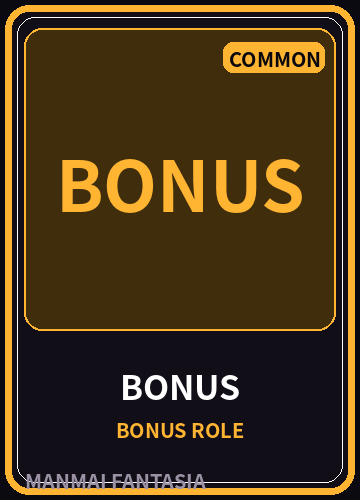
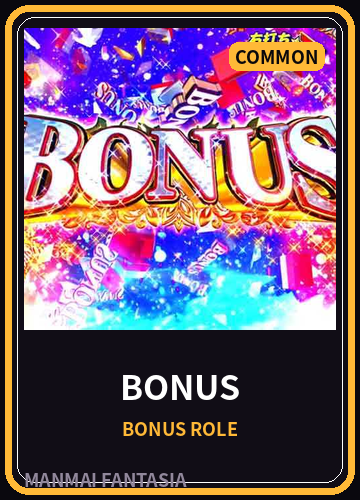
Add files via upload

diff --git a/index.html b/index.html
@@ -2,7 +2,7 @@
 <html lang="ja">
 <head>
 <meta charset="utf-8"><meta name="viewport" content="width=device-width,initial-scale=1">
-<title>万枚ファンタジア Ver.14</title>
+<title>万枚ファンタジア Ver.16</title>
 <style>
 *{box-sizing:border-box}body{margin:0;background:radial-gradient(circle at top,#311842,#070609 65%);color:#fff;font-family:system-ui,-apple-system,"Segoe UI",sans-serif}
 .wrap{max-width:1180px;margin:auto;padding:18px 14px 60px}h1{text-align:center;margin:0;font-size:clamp(34px,7vw,62px);letter-spacing:.07em}.sub{text-align:center;color:#cbbfd2;margin:4px 0 18px}
@@ -58,7 +58,7 @@
 .card .cardFallback{position:absolute;inset:0;display:grid;place-items:center;text-align:center;padding:7px}
 @media(max-width:600px){.card{min-height:135px!important}.card img.cardArt{min-height:135px}}
 
-</style></head><body>
+.roleFxPanel{border-color:#ffe27755!important;background:linear-gradient(180deg,#211627,#151019)!important}.roleFxHead{display:flex;justify-content:space-between;align-items:center;margin-bottom:10px;font-weight:1000}.roleFxHead span{font-size:22px;letter-spacing:.12em;color:#ffe277;text-shadow:0 0 16px #ffe27766}.roleFxHead b{font-size:12px;color:#70ffad;border:1px solid #70ffad55;padding:5px 10px;border-radius:999px}.roleFxRows{display:grid;gap:7px}.roleFxRow{display:grid;grid-template-columns:minmax(120px,1.1fr) 1fr auto;align-items:center;gap:10px;padding:8px 10px;border-radius:10px;background:#09070dbd;border:1px solid #ffffff12}.roleFxName{font-weight:900}.roleFxMeter{height:8px;background:#ffffff12;border-radius:999px;overflow:hidden}.roleFxMeter i{display:block;height:100%;background:linear-gradient(90deg,#8f5cff,#ffe277);border-radius:999px}.roleFxResult{font-size:11px;font-weight:1000}.roleFxRow.hit{border-color:#ffe27788;box-shadow:0 0 16px #ffe27720}.roleFxRow.hit .roleFxResult{color:#ffe277}.roleFxRow.special{border-color:#61c7ff88}.roleFxRow.special .roleFxResult{color:#61c7ff}.roleFxEmpty{text-align:center;color:#9d91a5;font-size:12px;padding:10px}.card.roleUsed{box-shadow:0 0 0 3px #ffe277,0 0 24px #ffe27788!important;transform:translateY(-3px)}</style></head><body>
 
 <div class="howOverlay" id="howOverlay">
   <div class="howBox">
@@ -74,7 +74,7 @@
 <div id="ruleContent"></div></div></div>
 
 <div class="synergy" id="syn">SYNERGY!</div><div class="overlay" id="overlay"><div><div class="fx" id="fx">FREEZE</div><div class="subfx" id="fxsub"></div></div></div>
-<div class="wrap"><h1>万枚ファンタジア</h1><div class="sub">Ver.14 ― IMAGE DECK</div>
+<div class="wrap"><h1>万枚ファンタジア</h1><div class="sub">Ver.16 ― BASIC DECK REVOLUTION</div>
 <div class="panel"><div class="machines">
 <div class="machine selected" data-m="madoka"><div class="machineCab"><img src="madoka.png" alt="スマスロ マギアレコード 筐体"></div><div class="machineInfo"><h3>スマスロ マギアレコード</h3><small>上位：エンブリオ・イブ覚醒</small></div></div>
 <div class="machine" data-m="geass"><div class="machineCab"><img src="geass.png" alt="スマスロ コードギアス 筐体"></div><div class="machineInfo"><h3>スマスロ コードギアス</h3><small>上位：ギアスラッシュ</small></div></div>
@@ -99,8 +99,8 @@ let soundOn=true,ctx=null;function tone(f,d=.08,g=.035,w=0,t="triangle"){if(!sou
 const S={bet(){tone(220,.05);tone(330,.05,.03,.05)},flip(){tone(500+Math.random()*80,.035,.018)},rare(){tone(170,.12,.055,0,"sawtooth");tone(700,.15,.03,.07)},hit(){tone(650,.08,.04);tone(900,.12,.04,.07)},free(){[650,850,1100].forEach((f,i)=>tone(f,.12,.045,i*.06))},freeze(){tone(70,.55,.08,0,"sawtooth");tone(950,.5,.05,.4)},premium(){[100,330,550,880,1320].forEach((f,i)=>tone(f,.2,.05,i*.1))}};
 const common=[...Array(18).fill("BEL"),...Array(14).fill("REP"),...Array(6).fill("WCHE"),...Array(2).fill("SCHE"),...Array(5).fill("WSUI"),"SSUI",...Array(5).fill("CHN"),...Array(3).fill("BON")];
 const specs={madoka:["QB","QB","SOUL","SOUL","GRIEF","GRIEF"],geass:["GEASS","GEASS","KNIGHT","KNIGHT","KMF","KMF"],hokuto:["YURIA","YURIA","TOMO","TOMO","SEVEN","SEVEN"],basilisk:["KOGA","KOGA","IGA","IGA","KIZUNA","KIZUNA"]};
-const cardImages={"BEL": "card_bel.png", "REP": "card_rep.png", "WCHE": "card_wche.png", "SCHE": "card_sche.png", "WSUI": "card_wsui.png", "SSUI": "card_ssui.png", "CHN": "card_chn.png", "BON": "card_bon.png", "QB": "card_qb.png", "SOUL": "card_soul.png", "GRIEF": "card_grief.png", "GEASS": "card_geass.png", "KNIGHT": "card_knight.png", "KMF": "card_kmf.png", "YURIA": "card_yuria.png", "TOMO": "card_tomo.png", "SEVEN": "card_seven.png", "KOGA": "card_koga.png", "IGA": "card_iga.png", "KIZUNA": "card_kizuna.png"};
-const names={BEL:"ベル",REP:"リプレイ",WCHE:"弱チェリー",SCHE:"強チェリー",WSUI:"弱スイカ",SSUI:"強スイカ",CHN:"チャンス目",BON:"BONUS",QB:"キュゥべえ",SOUL:"ソウルジェム",GRIEF:"グリーフシード",GEASS:"ギアス",KNIGHT:"黒の騎士団",KMF:"ナイトメア",YURIA:"ユリア",TOMO:"強敵",SEVEN:"北斗七星",KOGA:"甲賀",IGA:"伊賀",KIZUNA:"絆"};
+const cardImages={"GOD":"card_god.png","MISS":"card_miss.png","BEL": "card_bel.png", "REP": "card_rep.png", "WCHE": "card_wche.png", "SCHE": "card_sche.png", "WSUI": "card_wsui.png", "SSUI": "card_ssui.png", "CHN": "card_chn.png", "BON": "card_bon.png", "QB": "card_qb.png", "SOUL": "card_soul.png", "GRIEF": "card_grief.png", "GEASS": "card_geass.png", "KNIGHT": "card_knight.png", "KMF": "card_kmf.png", "YURIA": "card_yuria.png", "TOMO": "card_tomo.png", "SEVEN": "card_seven.png", "KOGA": "card_koga.png", "IGA": "card_iga.png", "KIZUNA": "card_kizuna.png"};
+const names={GOD:"GOD",MISS:"ハズレ",BEL:"ベル",REP:"リプレイ",WCHE:"弱チェリー",SCHE:"強チェリー",WSUI:"弱スイカ",SSUI:"強スイカ",CHN:"チャンス目",BON:"BONUS",QB:"キュゥべえ",SOUL:"ソウルジェム",GRIEF:"グリーフシード",GEASS:"ギアス",KNIGHT:"黒の騎士団",KMF:"ナイトメア",YURIA:"ユリア",TOMO:"強敵",SEVEN:"北斗七星",KOGA:"甲賀",IGA:"伊賀",KIZUNA:"絆"};
 const cabinetImages={
  madoka:"madoka.png",
  geass:"geass.png",
@@ -153,7 +153,193 @@ function renderBetButtons(){
    });
  }
 }
-function updateCabinetDisplay(){
+const roleReqFX={BEL:4,REP:3,WCHE:2,SCHE:1,WSUI:2,SSUI:1,CHN:2,BON:1};const specialFX=new Set(["QB","SOUL","GRIEF","GEASS","KNIGHT","KMF","YURIA","TOMO","SEVEN","KOGA","IGA","KIZUNA"]);function updateRoleFX(arr){const c={};arr.forEach(x=>c[x]=(c[x]||0)+1);let rows=[],hits=0;Object.keys(roleReqFX).forEach(k=>{let n=c[k]||0;if(!n)return;let r=roleReqFX[k],hit=n>=r;if(hit)hits++;rows.push(`<div class="roleFxRow ${hit?"hit":""}"><div class="roleFxName">${names[k]} ×${n}</div><div class="roleFxMeter"><i style="width:${Math.min(100,n/r*100)}%"></i></div><div class="roleFxResult">${hit?"成立！":`あと${r-n}枚`}</div></div>`)});Object.keys(c).filter(k=>specialFX.has(k)).forEach(k=>rows.push(`<div class="roleFxRow special"><div class="roleFxName">${names[k]} ×${c[k]}</div><div class="roleFxMeter"><i style="width:100%"></i></div><div class="roleFxResult">専用カード出現</div></div>`));E("roleFxRows").innerHTML=rows.join("")||'<div class="roleFxEmpty">成立候補なし</div>';E("roleFxStatus").textContent=hits?`${hits} ROLE HIT`:"CHECK COMPLETE";document.querySelectorAll("#cards .card").forEach(el=>el.classList.remove("roleUsed"));Object.keys(roleReqFX).forEach(k=>{if((c[k]||0)>=roleReqFX[k])document.querySelectorAll(`#cards .card.${k}`).forEach(el=>el.classList.add("roleUsed"))})}function updateCabinetDisplay(){
+ if(E("currentCabImg"))E("currentCabImg").src=cabinetImages[machine];
+ if(E("currentCabName"))E("currentCabName").textContent=cabinetNames[machine];
+ if(E("currentCabUpper"))E("currentCabUpper").textContent="上位AT："+upperNames[machine];
+}
+function ui(){updateCabinetDisplay();E("credit").textContent=credit.toLocaleString();E("turn").textContent=turn;E("payout").textContent=lastPay.toLocaleString();E("free").textContent=free;E("cost").textContent=(100*turn).toLocaleString()+"〜";
+ let s="",p=0;if(machine==="madoka"){s=`穢れ ${kegare}/100`;p=kegare}if(machine==="geass"){s=`COMBO ×${combo.toFixed(1)}`;p=(combo-1)/2*100}if(machine==="hokuto"){s=battle?`BATTLE ${bchain}連 / ${Math.round(brate*100)}%`:"BATTLE待機";p=battle?brate*100:0}if(machine==="basilisk"){s=bt?`BT 甲賀 ${koga}人 vs 伊賀 ${iga}人`:"BT待機";p=bt?(10-iga)*10:0}E("state").textContent=s;E("fill").style.width=Math.min(100,p)+"%";
+ if(rushLevel===2) E("atState").textContent=`🌈 PREMIUM ${upperNames[machine]}`;
+ else if(rushLevel===1) E("atState").textContent=`🔥 ${upperNames[machine]}`;
+ else if(free>0) E("atState").textContent="FREE DRAW";
+ else E("atState").textContent="NORMAL";
+ renderBetButtons();
+ E("freebtn").style.display="none";
+ ["madoka","geass","hokuto","basilisk"].forEach(m=>{E("c"+m).textContent=localStorage.getItem("mf_comp_"+m)?"✓ COMPLETE":""})}
+function synergy(h){if(machine==="madoka")return (ct(h,"QB")+ct(h,"SOUL")+ct(h,"GRIEF"))>=2;if(machine==="geass")return (ct(h,"GEASS")+ct(h,"KNIGHT")+ct(h,"KMF"))>=2;if(machine==="hokuto")return (ct(h,"YURIA")+ct(h,"TOMO")+ct(h,"SEVEN"))>=2;return ct(h,"KOGA")&&ct(h,"IGA")||ct(h,"KIZUNA")}
+
+const ruleCommon=[
+ ["ベル×4以上","小PAYOUT。5枚・7枚で配当アップ"],
+ ["弱チェリー×3","弱チェリー役"],
+ ["強チェリー","1枚から強レア役"],
+ ["弱スイカ×3","弱スイカ役"],
+ ["強スイカ","1枚から強レア役"],
+ ["チャンス目×4","PAYOUT＋FREE DRAW"],
+ ["BONUS×2","BONUS＋FREE DRAW"],
+ ["リプレイ×7","FREE DRAW"]
+];
+const machineRules={
+ madoka:[
+  ["キュゥべえ＋弱チェリー","契約示唆：穢れ獲得"],
+  ["ソウルジェム＋強チェリー/強スイカ","共鳴：FREE DRAW"],
+  ["グリーフシード","穢れ大量獲得"],
+  ["穢れ100","穢れ解放：大量PAYOUT＋FREE"],
+  ["専用カード＋強レア役（FREE中）","エンブリオ・イブ覚醒へ昇格"]
+ ],
+ geass:[
+  ["ギアス＋レア役","COMBO上昇"],
+  ["黒の騎士団＋レア役","COMBO維持＋FREE"],
+  ["ナイトメア＋強チェリー/強スイカ","強襲PAYOUT"],
+  ["専用カード＋強レア役（FREE中）","ギアスラッシュへ昇格"]
+ ],
+ hokuto:[
+  ["強敵＋強チェリー/強スイカ","84% BATTLE突入"],
+  ["ユリア＋BATTLE敗北","復活"],
+  ["北斗七星","BATTLE継続率を強化"],
+  ["専用カード＋強レア役（FREE中）","無想転生バトルへ昇格"]
+ ],
+ basilisk:[
+  ["甲賀＋伊賀","争忍開始"],
+  ["絆＋BT中","絆高確：FREE＋PAYOUT"],
+  ["強チェリー","伊賀人数への攻撃強化"],
+  ["絆","甲賀側の被害を軽減"],
+  ["専用カード＋強レア役（FREE中）","天膳BTへ昇格"]
+ ]
+};
+function showRules(){
+ E("ruleTitle").textContent=`${document.querySelector(".machine.selected h3").textContent} ― 役・シナジー一覧`;
+ E("ruleContent").innerHTML=[...ruleCommon,...machineRules[machine]].map(x=>`<div class="ruleRow"><b>${x[0]}</b><span>${x[1]}</span></div>`).join("")+
+ `<div class="ruleRow"><b>FREEZE</b><span>専用カード＋強チェリー＋BONUS</span></div>
+  <div class="ruleRow"><b>🌈 PREMIUM FREEZE</b><span>専用シナジー＋強チェリー＋強スイカ＋BONUS。最上位状態へ。</span></div>`;
+ E("ruleOverlay").classList.add("show")
+}
+function markCards(h,codes){
+ [...E("cards").children].forEach((el,i)=>{if(codes.includes(h[i]))el.classList.add("used")})
+}
+async function roleCheck(h,r){
+ E("rolePanel").classList.add("show");E("roleResults").innerHTML="";E("totalRole").textContent="";
+ const events=[];
+ const add=(title,why,effect,codes=[])=>events.push({title,why,effect,codes});
+ let bel=ct(h,"BEL"),wc=ct(h,"WCHE"),sc=ct(h,"SCHE"),ws=ct(h,"WSUI"),ss=ct(h,"SSUI"),ch=ct(h,"CHN"),bo=ct(h,"BON"),re=ct(h,"REP");
+ if(bel>=4)add("ベル役",`ベル ×${bel}`,"PAYOUT発生",["BEL"]);
+ if(wc>=3)add("弱チェリー役",`弱チェリー ×${wc}`,"PAYOUT発生",["WCHE"]);
+ if(sc)add("強チェリー",`強チェリー ×${sc}`,"強レア役",["SCHE"]);
+ if(ws>=3)add("弱スイカ役",`弱スイカ ×${ws}`,"PAYOUT発生",["WSUI"]);
+ if(ss)add("強スイカ",`強スイカ ×${ss}`,"強レア役",["SSUI"]);
+ if(ch>=4)add("チャンス目",`チャンス目 ×${ch}`,"FREE DRAW獲得",["CHN"]);
+ if(bo>=2)add("BONUS",`BONUS ×${bo}`,"FREE DRAW獲得",["BON"]);
+ if(re>=7)add("リプレイ役",`リプレイ ×${re}`,"FREE DRAW獲得",["REP"]);
+ if(machine==="madoka"){
+  if(ct(h,"QB")&&wc)add("契約示唆","キュゥべえ＋弱チェリー","穢れ獲得",["QB","WCHE"]);
+  if(ct(h,"SOUL")&&(sc||ss))add("ソウルジェム共鳴","ソウルジェム＋強レア役","FREE DRAW",["SOUL","SCHE","SSUI"]);
+  if(ct(h,"GRIEF"))add("グリーフシード","グリーフシード出現","穢れ＋35",["GRIEF"]);
+ }
+ if(machine==="geass"){
+  if(ct(h,"KNIGHT")&&(sc||ss||ch>=4||bo>=2))add("黒の騎士団","黒の騎士団＋レア役","COMBO維持＋FREE",["KNIGHT","SCHE","SSUI","CHN","BON"]);
+  if(ct(h,"KMF")&&(sc||ss))add("ナイトメア強襲","ナイトメア＋強レア役","追加PAYOUT",["KMF","SCHE","SSUI"]);
+ }
+ if(machine==="hokuto"){
+  if(ct(h,"TOMO")&&(sc||ss))add("強敵シナジー","強敵＋強レア役","84% BATTLE",["TOMO","SCHE","SSUI"]);
+  if(ct(h,"SEVEN"))add("北斗七星","北斗七星出現","継続率強化",["SEVEN"]);
+ }
+ if(machine==="basilisk"){
+  if(ct(h,"KOGA")&&ct(h,"IGA"))add("争忍開始","甲賀＋伊賀","BT突入",["KOGA","IGA"]);
+  if(ct(h,"KIZUNA")&&bt)add("絆高確","絆＋BT","FREE＋戦闘有利",["KIZUNA"]);
+ }
+ if(r.fr)add(r.pr?"🌈 PREMIUM FREEZE":"FREEZE",r.pr?"専用シナジー＋強チェリー＋強スイカ＋BONUS":"専用カード＋強チェリー＋BONUS",r.pr?"最上位AT＋大量FREE":"大量PAYOUT＋FREE",r.pr?["SCHE","SSUI","BON",...specs[machine]]:["SCHE","BON",...specs[machine]]);
+ if(!events.length)add("ハズレ","有効な組み合わせなし","PAYOUTなし");
+ for(const e of events){
+   markCards(h,e.codes);
+   E("roleResults").insertAdjacentHTML("beforeend",`<div class="roleItem"><b>${e.title}</b><br><small>${e.why}</small><br><span class="roleEffect">→ ${e.effect}</span></div>`);
+   S.hit();await sleep(360);
+ }
+}
+
+function evalH(h){
+ let base=0,extra=0,msg=[],fr=false,pr=false;let bel=ct(h,"BEL"),wc=ct(h,"WCHE"),sc=ct(h,"SCHE"),ws=ct(h,"WSUI"),ss=ct(h,"SSUI"),ch=ct(h,"CHN"),bo=ct(h,"BON"),re=ct(h,"REP");
+ if(bel>=4){let x=bel>=7?350:bel>=5?120:50;base+=x;msg.push(`ベル${bel} +${x}`)}if(wc>=3){base+=220;msg.push("弱チェリー役 +220")}if(sc){base+=400*sc;msg.push(`強チェリー +${400*sc}`)}if(ws>=3){base+=300;msg.push("弱スイカ役 +300")}if(ss){base+=500;msg.push("強スイカ +500")}if(ch>=4){base+=450;extra++;msg.push("チャンス目 → FREE")}if(bo>=2){base+=800;extra++;msg.push("BONUS → FREE")}if(re>=7){extra++;msg.push("リプレイ7+ → FREE")}
+ let keys=specs[machine].filter((x,i,a)=>a.indexOf(x)===i),present=keys.filter(x=>ct(h,x));
+ if(machine==="madoka"){if(ct(h,"QB")&&wc){kegare+=20;base+=100;msg.push("契約示唆")}if(ct(h,"SOUL")&&(sc||ss)){base+=500;extra++;msg.push("ソウルジェム共鳴 → FREE")}if(ct(h,"GRIEF")){kegare+=35;msg.push("グリーフシード → 穢れ+35")}if(kegare>=100){kegare-=100;base+=1800;extra+=2;msg.push("穢れ解放 → FREE×2")}}
+ if(machine==="geass"){let role=sc||ss||ch>=4||bo>=2;combo=role?Math.min(3,combo+.25):Math.max(1,combo-.25);if(ct(h,"GEASS"))combo=Math.min(3,combo+.3);if(ct(h,"KNIGHT")&&role){extra++;msg.push("黒の騎士団 → COMBO維持/FREE")}if(ct(h,"KMF")&&(sc||ss)){base+=450;msg.push("ナイトメア強襲 +450")}base=Math.floor(base*combo)}
+ if(machine==="hokuto"){if(ct(h,"TOMO")&&(sc||ss)){battle=true;bchain=Math.max(1,bchain);brate=.84;extra++;msg.push("強敵 → 84% BATTLE")}if(ct(h,"YURIA"))msg.push("ユリア復活待機");if(ct(h,"SEVEN"))brate=Math.max(brate,.79);if(battle){if(Math.random()<brate){bchain++;base+=400;extra++;msg.push(`BATTLE継続 ${bchain}連`)}else if(ct(h,"YURIA")){bchain++;extra++;msg.push("ユリア復活")}else{battle=false;bchain=0;brate=.66;msg.push("BATTLE終了")}}}
+ if(machine==="basilisk"){if(ct(h,"KOGA")&&ct(h,"IGA")){bt=true;extra++;msg.push("甲賀＋伊賀 → 争忍開始")}if(ct(h,"KIZUNA")&&bt){extra++;base+=300;msg.push("絆高確 → FREE")}if(bt){let kd=Math.max(1,(sc?3:1)+(ct(h,"KOGA")?1:0)),id=Math.max(0,(ss?0:1)-(ct(h,"KIZUNA")?1:0));iga=Math.max(0,iga-kd);koga=Math.max(0,koga-id);base+=kd*120;if(iga===0){base+=1800;extra+=2;iga=10;koga=10;msg.push("完全勝利！ +1800 / FREE×2")}else if(koga===0){bt=false;koga=10;iga=10;msg.push("BT終了")}}}
+ if(present.length>=1&&sc&&bo){fr=true;base+=1800;extra+=3;msg.push("★ FREEZE")}
+ if(present.length>=2&&sc&&ss&&bo){pr=true;fr=true;base+=4500;extra+=6;msg.push("🌈 PREMIUM FREEZE")}
+ return{base,extra,msg,fr,pr}
+}
+async function spin(bet=null){
+ if(gameOver)return;let isFree=free>0,activeBet=lastBet,cost=0;if(isFree){free--;S.free()}else{activeBet=bet;cost=activeBet*turn;if(!activeBet||credit<cost)return;credit-=cost;lastBet=activeBet;turn++;S.bet()}round++;E("rolePanel").classList.remove("show");E("roleResults").innerHTML="";document.querySelectorAll(".spin").forEach(b=>b.disabled=true);E("freebtn").disabled=true;
+ let h=take();await reveal(h);if(synergy(h))await synfx();let r=evalH(h);
+ await roleCheck(h,r);
+ let rarePower=ct(h,"SCHE")+ct(h,"SSUI");
+ let specCount=specs[machine].filter((x,i,a)=>a.indexOf(x)===i&&ct(h,x)>0).length;
+ if(isFree && rushLevel===0 && (rarePower>=1 && specCount>=1)){
+   rushLevel=1;free+=2;fx(upperNames[machine],"上位AT突入！ FREE +2");log(`🔥 ${upperNames[machine]}へ昇格！`,"gold");
+ }
+ if(isFree && rushLevel===1 && ((ct(h,"SCHE")&&ct(h,"SSUI")) || r.pr)){
+   rushLevel=2;free+=3;fx("PREMIUM",upperNames[machine]+" 覚醒",true);log(`🌈 PREMIUM ${upperNames[machine]}へ昇格！`,"gold");
+ }
+ if(r.pr){rushLevel=2;free=Math.max(free,6)}
+ else if(r.fr && rushLevel===0){rushLevel=1;free=Math.max(free,4)}
+ let m=activeBet===100?1:activeBet===300?2.7:4.2;
+ let rushPayMult=rushLevel===2?3:rushLevel===1?2:1;
+ let pay=Math.floor(r.base*m*rushPayMult);lastPay=pay;credit+=pay;free+=r.extra;E("totalRole").textContent=`TOTAL PAYOUT +${pay.toLocaleString()}`;if(r.fr){await sleep(250);fx(r.pr?"PREMIUM FREEZE":"FREEZE",r.pr?"最上位シナジー成立":"シナジー覚醒",r.pr)}
+ log(`<b>ROUND ${round} ${isFree?"FREE":`COST -${cost}`}</b><br>${r.msg.join("<br>")}<br><span class="gold">PAYOUT +${pay.toLocaleString()} / CREDIT ${credit.toLocaleString()}</span>`,r.fr?"hot":"");
+ if(!manmai&&credit>=10000){manmai=true;fx("10,000","万枚突破！ COMPLETEまで続行");log("★ 万枚突破！ NEXT TARGET 20,000枚","gold")}
+ if(credit>=20000){complete();return}
+ if(free===0 && rushLevel>0){log(`${upperNames[machine]} 終了。`);rushLevel=0}
+ if(credit<100*turn&&free===0){end();return}
+ if(E("freebtn"))E("freebtn").disabled=false;ui()
+}
+function complete(){gameOver=true;localStorage.setItem("mf_comp_"+machine,"1");fx("COMPLETE","20,000枚突破",true);E("ending").innerHTML='<div class="panel ending win">🏆 COMPLETE<br>20,000枚突破！</div>';log("★ COMPLETE達成！","gold");ui()}
+function end(){gameOver=true;E("ending").innerHTML='<div class="panel ending lose">GAME OVER</div>';log("次ターン最低BETを払えない。GAME OVER。","hot");ui()}
+function reset(){rushLevel=0;rushDraws=0;credit=2000;turn=1;lastPay=0;free=0;lastBet=300;kegare=0;combo=1;battle=false;bchain=0;brate=.66;koga=10;iga=10;bt=false;gameOver=false;manmai=false;round=0;newDeck();E("cards").innerHTML=Array.from({length:10},()=>'<div class="slot">?</div>').join("");E("log").innerHTML="CREDIT 2,000枚。万枚は通過点。20,000枚COMPLETEを目指せ。";E("ending").innerHTML="";E("rolePanel").classList.remove("show");E("roleResults").innerHTML="";ui()}
+document.querySelectorAll(".machine").forEach(x=>x.onclick=()=>{document.querySelectorAll(".machine").forEach(z=>z.classList.remove("selected"));x.classList.add("selected");machine=x.dataset.m;reset()});E("how").onclick=()=>E("howOverlay").classList.add("show");E("closeHow").onclick=()=>E("howOverlay").classList.remove("show");E("rules").onclick=showRules;E("closeRules").onclick=()=>E("ruleOverlay").classList.remove("show");E("reset").onclick=reset;E("sound").onclick=()=>{soundOn=!soundOn;E("sound").textContent=soundOn?"SOUND ON":"SOUND OFF"};reset();
+
+// Ver.16 basic deck extras
+const oldUpdateRoleFX=updateRoleFX;
+updateRoleFX=function(arr){
+ oldUpdateRoleFX(arr);
+ const c={};arr.forEach(x=>c[x]=(c[x]||0)+1);
+ const box=E("roleFxRows"); if(!box)return;
+ if(c.GOD){box.insertAdjacentHTML("afterbegin",`<div class="roleFxRow hit"><div class="roleFxName">GOD ×${c.GOD}</div><div class="roleFxMeter"><i style="width:100%"></i></div><div class="roleFxResult">確定役！</div></div>`);}
+ if(c.MISS){box.insertAdjacentHTML("beforeend",`<div class="roleFxRow"><div class="roleFxName">ハズレ（ヤムチャ） ×${c.MISS}</div><div class="roleFxMeter"><i style="width:${Math.min(100,c.MISS/3*100)}%"></i></div><div class="roleFxResult">${c.MISS>=3?"DEAD HAND!":`あと${3-c.MISS}枚`}</div></div>`);}
+};
+
+</script></body></htmlupdateRoleFX(arr);
+function sh(a){for(let i=a.length-1;i;i--){let j=Math.floor(Math.random()*(i+1));[a[i],a[j]]=[a[j],a[i]]}return a}function newDeck(){deck=sh([...common,...specs[machine]])}function ct(h,x){return h.filter(v=>v===x).length}function take(){if(deck.length<10)newDeck();return deck.splice(0,10)}
+function log(s,c=""){E("log").innerHTML=`<span class="${c}">${s}</span><hr style="border-color:#2b2430;border-width:1px 0 0">`+E("log").innerHTML}
+async function reveal(h){E("cards").innerHTML=Array.from({length:10},()=>'<div class="slot">?</div>').join("");for(let i=0;i<10;i++){S.flip();let x=h[i],sl=E("cards").children[i];sl.outerHTML=`<div class="card ${x}"><img class="cardArt" src="${cardImages[x]}" alt="${names[x]}" onerror="this.style.display=\'none\';this.nextElementSibling.style.display=\'grid\'"><div class="cardFallback" style="display:none">${names[x]}<small>${x}</small></div></div>`;if(x==="SCHE"||x==="SSUI"){S.rare();await sleep(130)}await sleep(i===9?170:85)}}
+async function synfx(){S.hit();E("syn").classList.remove("show");void E("syn").offsetWidth;E("syn").classList.add("show");await sleep(600)}
+function fx(title,sub,premium=false){premium?S.premium():S.freeze();E("fx").textContent=title;E("fx").className="fx"+(premium?" rainbow":"");E("fxsub").textContent=sub;E("overlay").classList.add("show");setTimeout(()=>E("overlay").classList.remove("show"),1300)}
+
+function renderBetButtons(){
+ const area=E("betArea");
+ if(!area)return;
+ if(free>0 && !gameOver){
+   const baseMult=lastBet===100?1:lastBet===300?2.7:4.2;
+   const rushMult=rushLevel===2?3:rushLevel===1?2:1;
+   const totalMult=(baseMult*rushMult).toFixed(1).replace(".0","");
+   let label="FREE DRAW",cls="freeSpecial";
+   if(rushLevel===1){label=upperNames[machine];cls="upperSpecial"}
+   if(rushLevel===2){label="PREMIUM "+upperNames[machine];cls="premiumSpecial"}
+   area.innerHTML=`<button class="${cls}" id="freeSpecial">${label}<br><small>残り ${free} DRAW ／ PAYOUT ×${totalMult}</small></button>`;
+   E("freeSpecial").onclick=()=>spin();
+ }else{
+   area.innerHTML=`
+     <button class="spin" data-bet="100">${(100*turn).toLocaleString()} BET</button>
+     <button class="spin" data-bet="300">${(300*turn).toLocaleString()} BET</button>
+     <button class="spin" data-bet="500">${(500*turn).toLocaleString()} BET</button>`;
+   area.querySelectorAll(".spin").forEach(b=>{
+     const baseBet=+b.dataset.bet;
+     const actualCost=baseBet*turn;
+     b.disabled=gameOver || credit<actualCost;
+     b.onclick=()=>spin(baseBet);
+   });
+ }
+}
+const roleReqFX={BEL:4,REP:3,WCHE:2,SCHE:1,WSUI:2,SSUI:1,CHN:2,BON:1};const specialFX=new Set(["QB","SOUL","GRIEF","GEASS","KNIGHT","KMF","YURIA","TOMO","SEVEN","KOGA","IGA","KIZUNA"]);function updateRoleFX(arr){const c={};arr.forEach(x=>c[x]=(c[x]||0)+1);let rows=[],hits=0;Object.keys(roleReqFX).forEach(k=>{let n=c[k]||0;if(!n)return;let r=roleReqFX[k],hit=n>=r;if(hit)hits++;rows.push(`<div class="roleFxRow ${hit?"hit":""}"><div class="roleFxName">${names[k]} ×${n}</div><div class="roleFxMeter"><i style="width:${Math.min(100,n/r*100)}%"></i></div><div class="roleFxResult">${hit?"成立！":`あと${r-n}枚`}</div></div>`)});Object.keys(c).filter(k=>specialFX.has(k)).forEach(k=>rows.push(`<div class="roleFxRow special"><div class="roleFxName">${names[k]} ×${c[k]}</div><div class="roleFxMeter"><i style="width:100%"></i></div><div class="roleFxResult">専用カード出現</div></div>`));E("roleFxRows").innerHTML=rows.join("")||'<div class="roleFxEmpty">成立候補なし</div>';E("roleFxStatus").textContent=hits?`${hits} ROLE HIT`:"CHECK COMPLETE";document.querySelectorAll("#cards .card").forEach(el=>el.classList.remove("roleUsed"));Object.keys(roleReqFX).forEach(k=>{if((c[k]||0)>=roleReqFX[k])document.querySelectorAll(`#cards .card.${k}`).forEach(el=>el.classList.add("roleUsed"))})}function updateCabinetDisplay(){
  if(E("currentCabImg"))E("currentCabImg").src=cabinetImages[machine];
  if(E("currentCabName"))E("currentCabName").textContent=cabinetNames[machine];
  if(E("currentCabUpper"))E("currentCabUpper").textContent="上位AT："+upperNames[machine];
